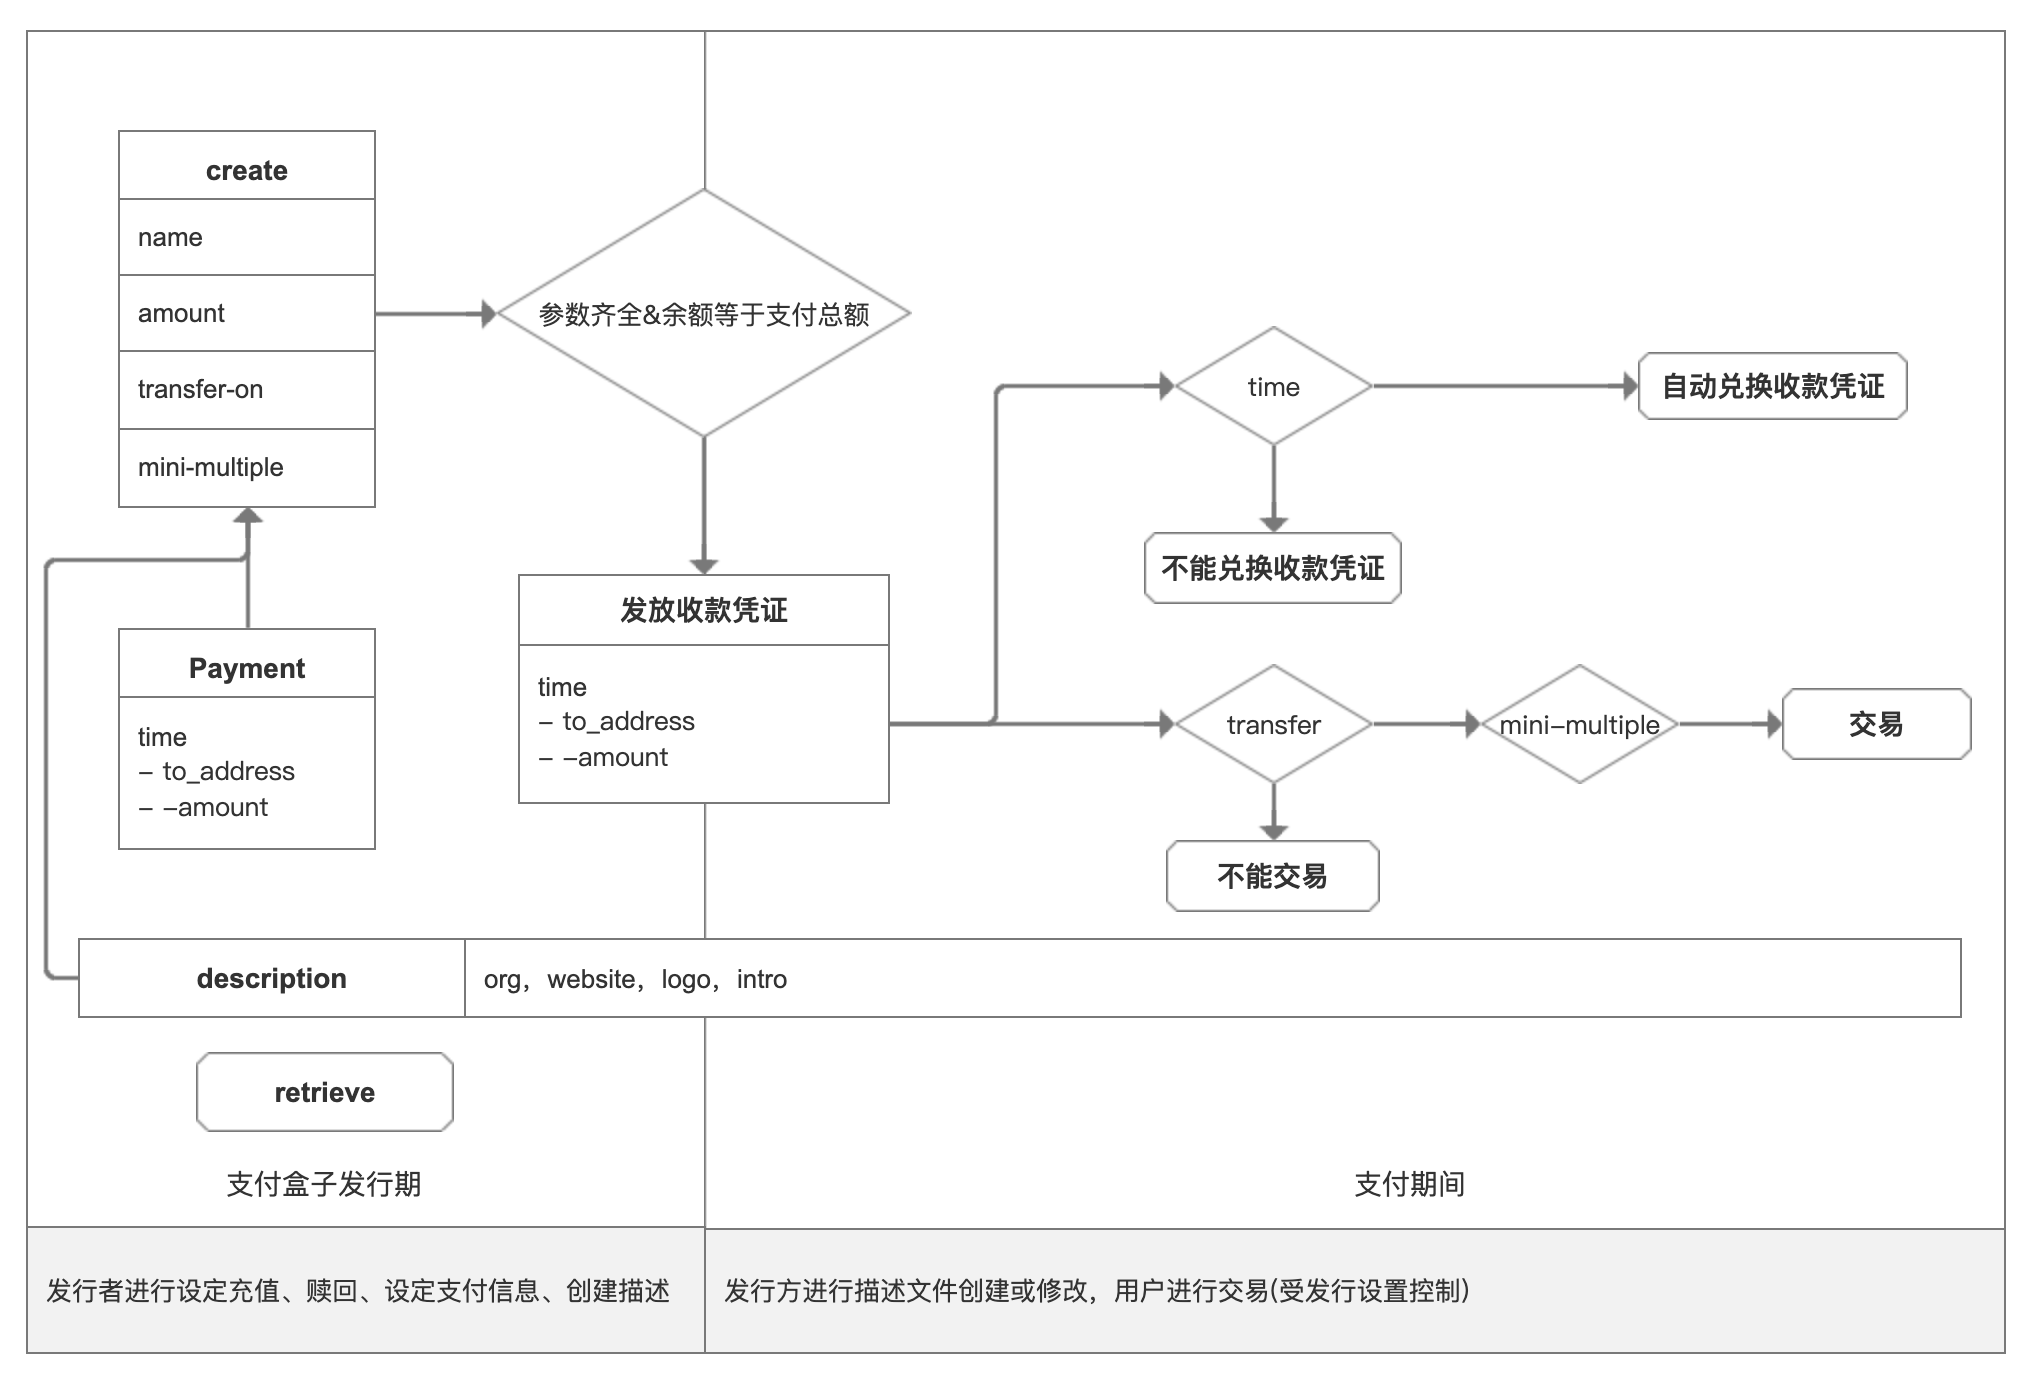
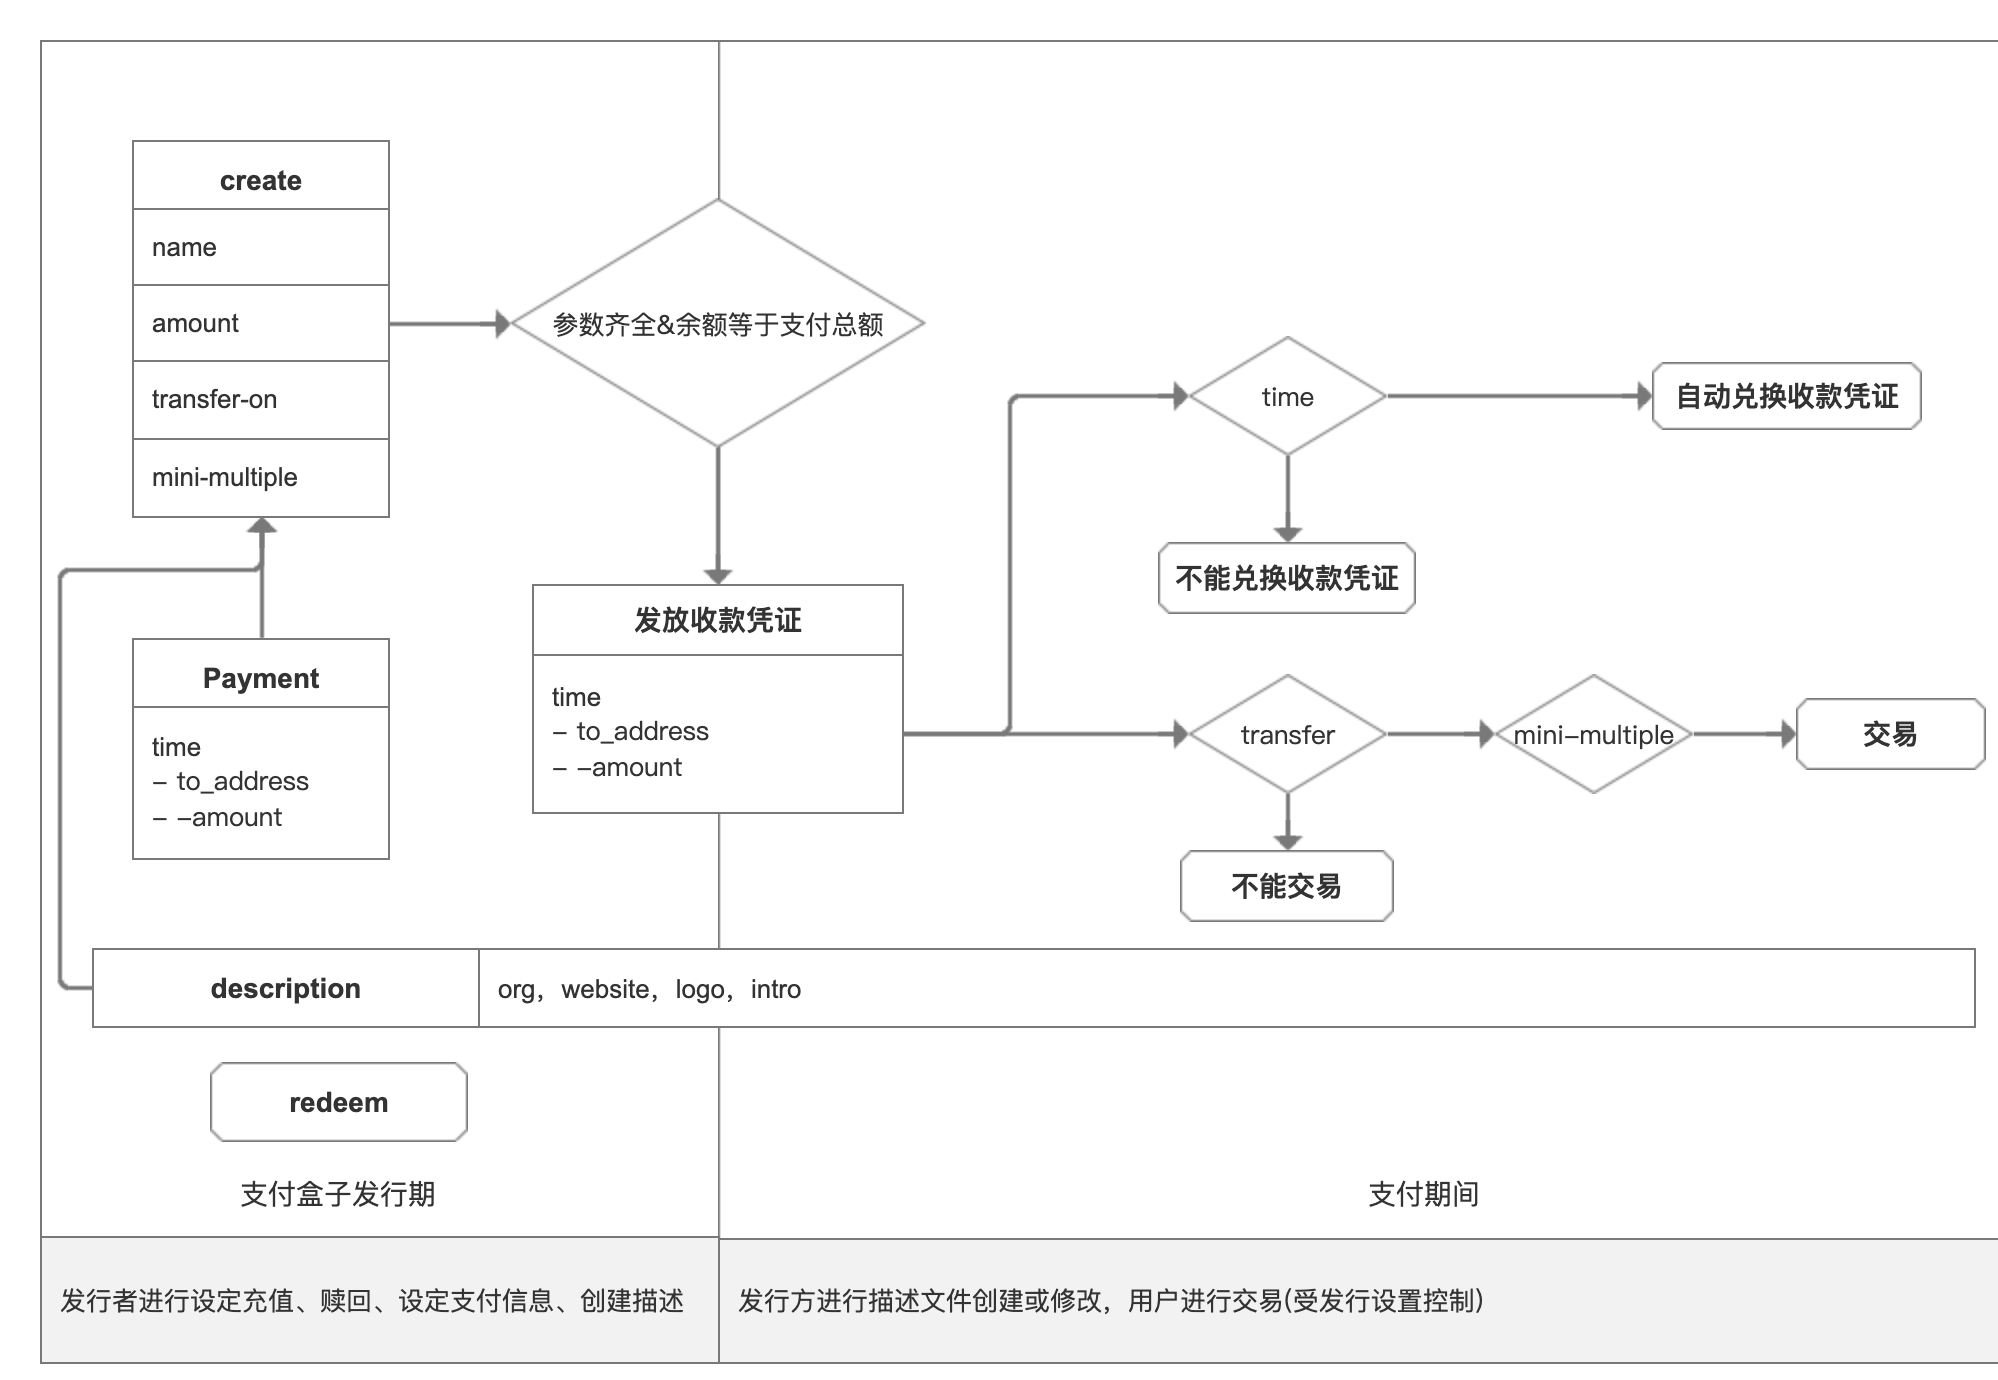
修改

diff --git a/docs/FutureBox.md b/docs/FutureBox.md
@@ -151,15 +151,17 @@ hashgardcli  futurebox set [FutureBoxID][payment-file] --from
 
 
 
- ## 取回
+## 赎回
 
-#### retrieve
+#### redeem
 
 ```bash
 hashgardcli futurebox retrieve[futureboxID][aomount] --from 
 ```
 
-- 盒子发行者在未进行支付信息设置时候可以取回全部或者部分支付盒子中的通证。
+盒子发行者在未进行支付信息设置时候可以取回全部或者部分支付盒子中的通证。
+
+
 
 
 

diff --git a/docs/DepositBox.md b/docs/DepositBox.md
@@ -14,11 +14,11 @@ Hashgard提供原生的存款服务协议。帮助金融机构进行流通资产
 
 ## 存款盒子的三个时期
 
+![depositbox](imges/depositbox.png)
 
 
 
 
-![flow](imges/flow.png)
 
 ### 1.存款盒子发行期
 
